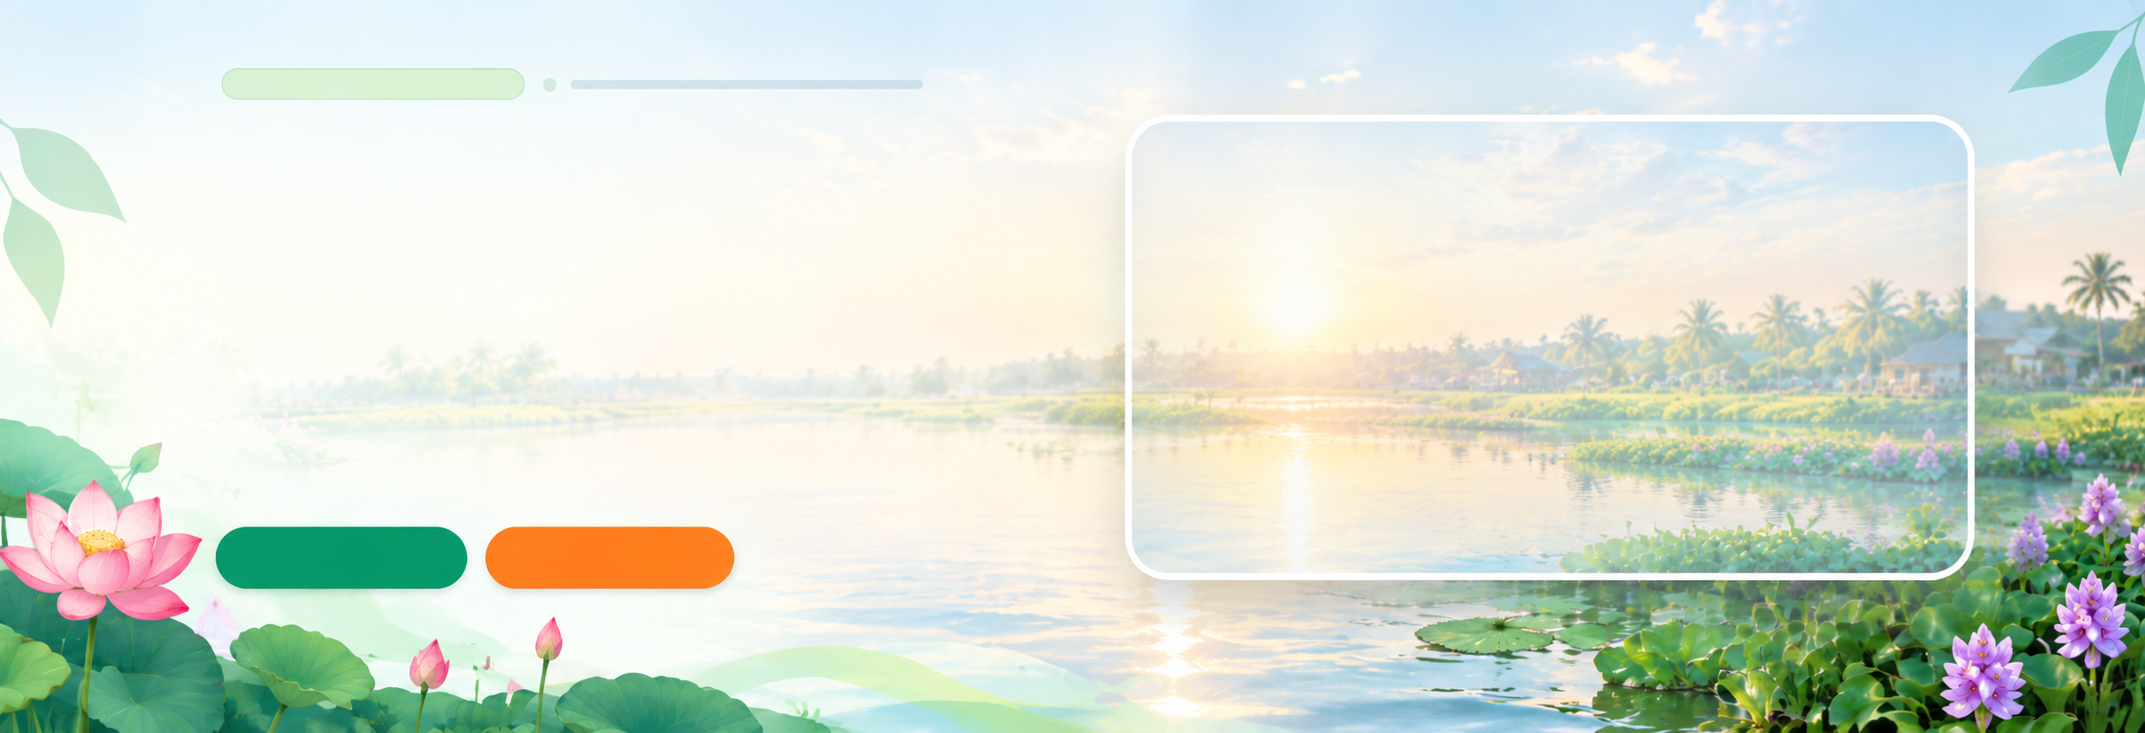
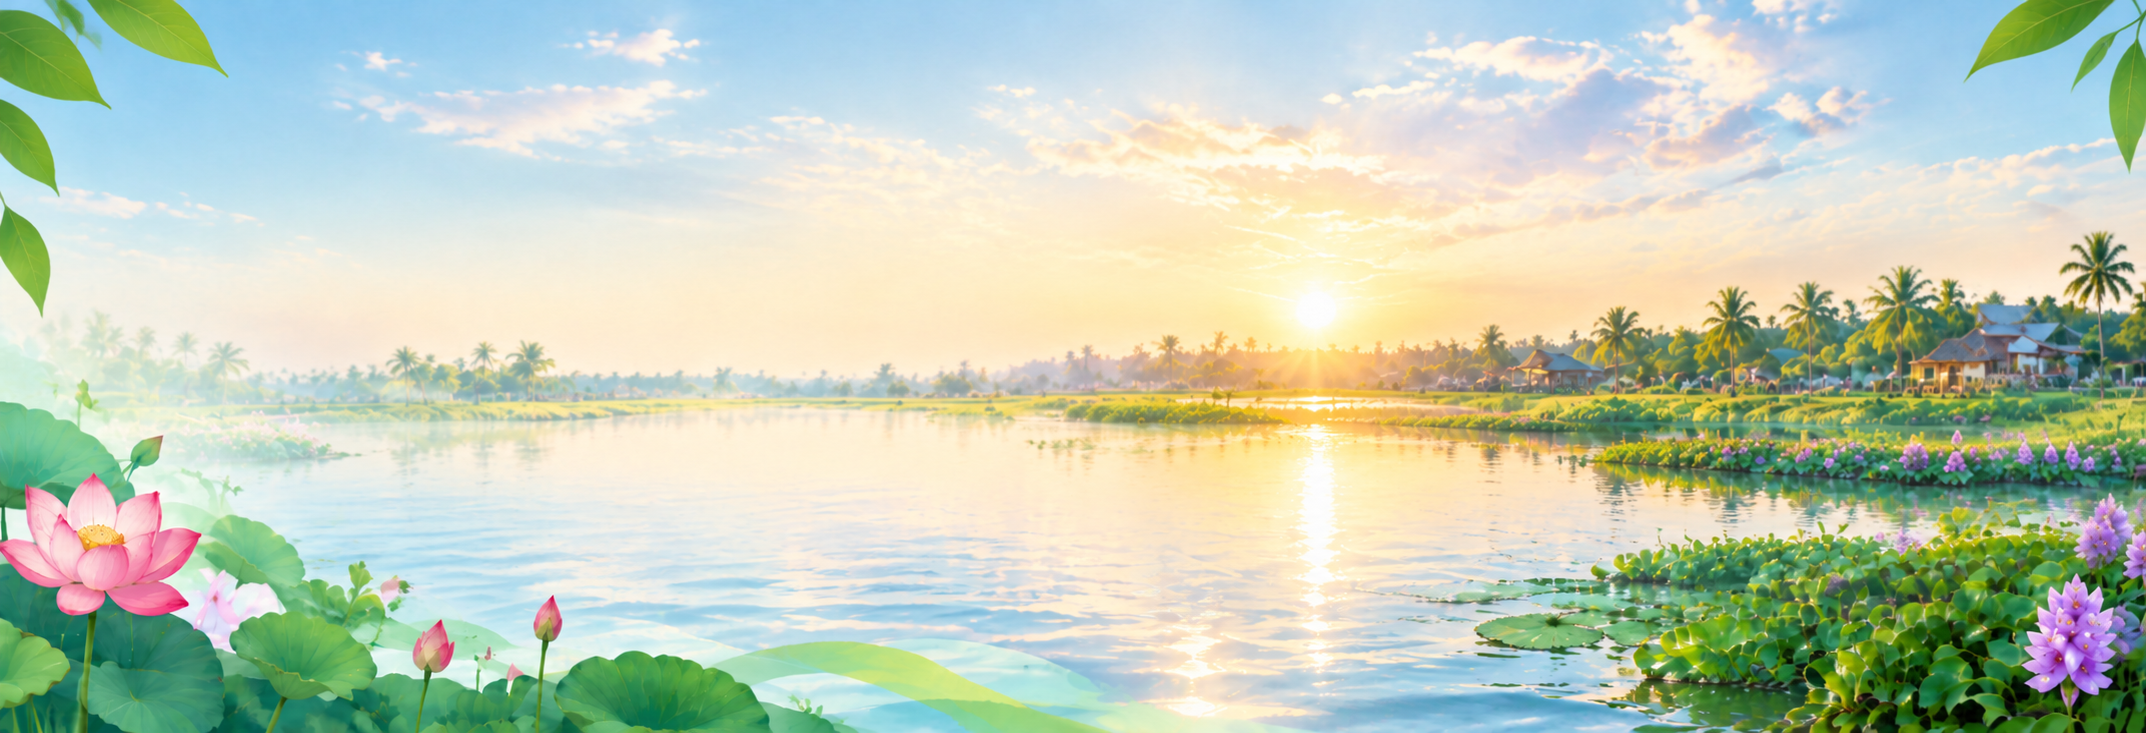
feat: cap nhat hinh nen hero trang chu sang file 689ad58c-4887-4cc4-9c3f-972994911b6c

diff --git a/src/pages/HomePage.tsx b/src/pages/HomePage.tsx
@@ -217,11 +217,11 @@ export const HomePage: React.FC<HomePageProps> = ({ onNavigate, onOpenCollaborat
       
       {/* ================= 1. HERO SECTION (PHONG CẢNH BÌNH MỸ: HOA SEN & HOA LỤC BÌNH) ================= */}
       <section className="relative w-full overflow-hidden border-b border-emerald-100/60 bg-[#eef7f4]">
-        {/* Natural Landscape Background: Đầm sen & Hoa lục bình Bình Mỹ (file 7e260313-7106-4b8d-b754-25b36873ff31.png) */}
+        {/* Natural Landscape Background: Đầm sen & Hoa lục bình Bình Mỹ (file 689ad58c-4887-4cc4-9c3f-972994911b6c.png) */}
         <div 
           className="absolute inset-0 w-full h-full bg-cover bg-center pointer-events-none select-none z-0"
           style={{
-            backgroundImage: `url('/assets/7e260313-7106-4b8d-b754-25b36873ff31.png')`,
+            backgroundImage: `url('/assets/689ad58c-4887-4cc4-9c3f-972994911b6c.png')`,
           }}
         />
 
